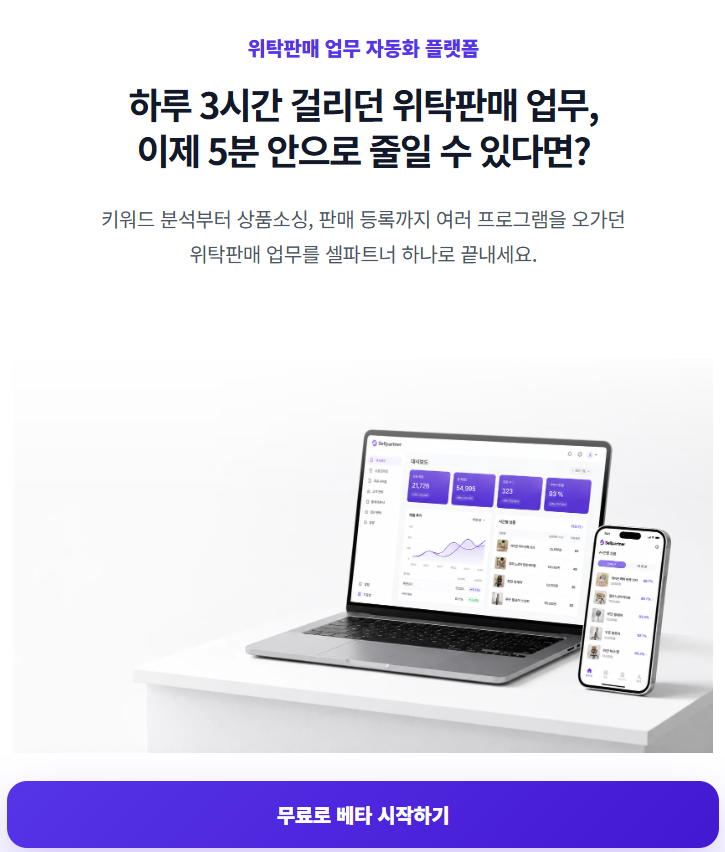
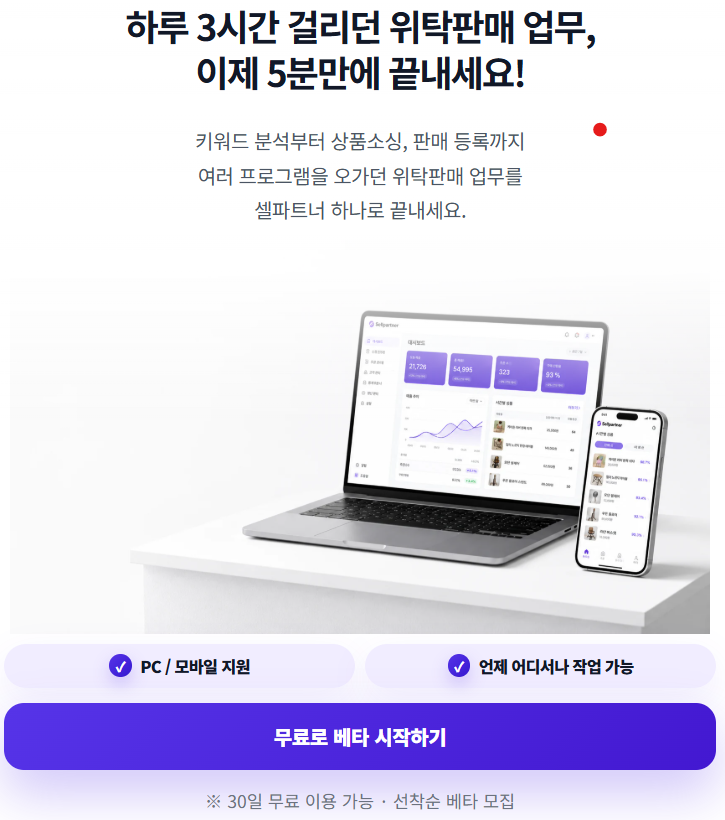
3차 수정

diff --git a/styles.css b/styles.css
@@ -72,7 +72,11 @@ img { display: block; max-width: 100%; height: auto; }
 .eyebrow { margin: 0 0 14px; color: var(--purple); font-weight: 900; letter-spacing: -0.02em; }
 .hero h1 { margin: 0; font-size: clamp(36px, 5vw, 64px); line-height: 1.12; letter-spacing: -0.065em; }
 .hero-desc { margin: 24px 0 0; max-width: 560px; color: var(--text); font-size: 20px; line-height: 1.75; letter-spacing: -0.025em; }
-.hero-actions { display: flex; gap: 12px; flex-wrap: wrap; margin-top: 34px; }
+.hero-badges { display: flex; gap: 14px; flex-wrap: wrap; margin-top: 10px; }
+.hero-badges span { display: inline-flex; align-items: center; gap: 7px; padding: 8px 14px; border-radius: 999px; background: rgba(239, 234, 255, .86); color: #111827; font-size: 16px; font-weight: 900; letter-spacing: -0.04em; box-shadow: 0 10px 28px rgba(86,52,232,.08); }
+.hero-badges span::before { content: "✓"; width: 22px; height: 22px; border-radius: 50%; display: grid; place-items: center; color: #fff; background: linear-gradient(135deg, var(--purple), #3517cf); font-size: 13px; font-weight: 1000; box-shadow: 0 6px 14px rgba(86,52,232,.24); }
+.hero-actions { display: flex; gap: 12px; flex-wrap: wrap; margin-top: 20px; }
+.hero-actions .btn-primary { min-width: 385px; }
 .btn { display: inline-flex; align-items: center; justify-content: center; min-height: 56px; padding: 0 26px; border-radius: 16px; font-weight: 900; letter-spacing: -0.02em; transition: transform .18s ease, box-shadow .18s ease, background .18s ease; }
 .btn:hover { transform: translateY(-2px); }
 .btn-primary { color: #fff; background: linear-gradient(135deg, var(--purple), #4318d1); box-shadow: 0 18px 40px rgba(86,52,232,.28); }
@@ -208,7 +212,7 @@ details p { margin: 14px 0 0; color: var(--text); line-height: 1.75; }
     padding-bottom: 42px;
     background-position:
       center,
-      center 58%;
+      center 52%;
     background-size:
       auto,
       min(122vw, 560px) auto;
@@ -216,7 +220,10 @@ details p { margin: 14px 0 0; color: var(--text); line-height: 1.75; }
   .hero-grid { min-height: 700px; }
   .hero h1 { font-size: 34px; }
   .hero-desc, .section-desc { font-size: 16px; line-height: 1.72; }
-  .hero-actions { display: grid; grid-template-columns: 1fr; }
+  .hero-badges { justify-content: center; gap: 8px; margin-top: auto; }
+  .hero-badges span { flex: 1 1 0; justify-content: center; min-width: 0; padding: 8px 8px; font-size: 13px; white-space: nowrap; }
+  .hero-badges span::before { width: 18px; height: 18px; font-size: 11px; }
+  .hero-actions { display: grid; grid-template-columns: 1fr; margin-top: 12px; }
   .btn { width: 100%; min-height: 54px; }
   h2 { font-size: 29px; line-height: 1.28; }
   .steps-grid { grid-template-columns: 1fr 1fr; gap: 12px; margin-top: 34px; }

diff --git a/index.html b/index.html
@@ -4,7 +4,8 @@
   <meta charset="utf-8" />
   <meta name="viewport" content="width=device-width, initial-scale=1" />
   <title>Sellpartner | 위탁판매 업무 자동화</title>
-  <meta property="og:image" content="/assets/main.png" />
+  <meta property="og:image" content="https://hwanginbeom.github.io/sellpartner-landingpage/assets/main.png" />
+  <meta property="og:url" content="https://hwanginbeom.github.io/sellpartner-landingpage/" />
   <meta property="og:image:width" content="1200" />
   <meta property="og:image:height" content="630" />
   <meta name="description" content="키워드 발굴부터 AI 상품 매칭, 마진 계산, 마켓 등록까지 셀파트너 하나로 끝내세요." />
@@ -42,6 +43,10 @@
           <p class="eyebrow">위탁판매 업무 자동화 플랫폼</p>
           <h2>하루 3시간 걸리던 위탁판매 업무,<br />이제 5분만에 끝내세요!</h2>
           <p class="hero-desc">키워드 분석부터 상품소싱, 판매 등록까지 <br class="mobile-only" />여러 프로그램을 오가던<br class="desktop-only" /> 위탁판매 업무를 <br class="mobile-only" />셀파트너 하나로 끝내세요.</p>
+          <div class="hero-badges" aria-label="서비스 지원 환경">
+            <span>PC / 모바일 지원</span>
+            <span>언제 어디서나 작업 가능</span>
+          </div>
           <div class="hero-actions">
             <a class="btn btn-primary" href="https://docs.google.com/forms/d/e/1FAIpQLSd--7QacjPiRMbE6lJnYktX9SyIoxptt73PLHErWVu4H65OWw/viewform?usp=header">무료로 베타 시작하기</a>
           </div>
